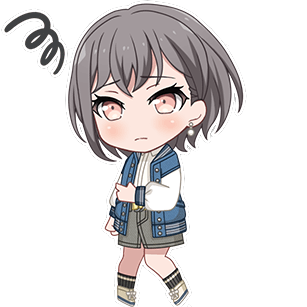
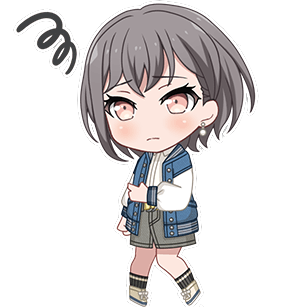
碧天伴走bug

Changed region(s): [[0.0, 0.0, 0.8502, 1.0]]

diff --git a/BasicMod-master/src/main/java/tomorimod/patches/BitianbanzouPatch.java b/BasicMod-master/src/main/java/tomorimod/patches/BitianbanzouPatch.java
@@ -30,7 +30,7 @@ public class BitianbanzouPatch {
 
             __instance.flash();
 
-            if (__instance.owner.hasPower(makeID("YeyingranPower"))) {
+            if (__instance.owner.hasPower(makeID("BitianbanzouPower"))) {
                 AbstractDungeon.actionManager.addToBottom(new ReducePowerAction(__instance.owner, __instance.owner, "Vigor", 1));
                 if (__instance.amount <= 0) {
                     AbstractDungeon.actionManager.addToBottom(

diff --git a/BasicMod-master/src/main/java/tomorimod/TomoriMod.java b/BasicMod-master/src/main/java/tomorimod/TomoriMod.java
@@ -63,7 +63,6 @@ import java.util.*;
 //TODO 不用tempcard农
 //TODO 音乐攻击牌重写
 //TODO 潜在表明
-//TODO 角色图像往右一点
 @SpireInitializer
 public class TomoriMod implements
         AddAudioSubscriber,
